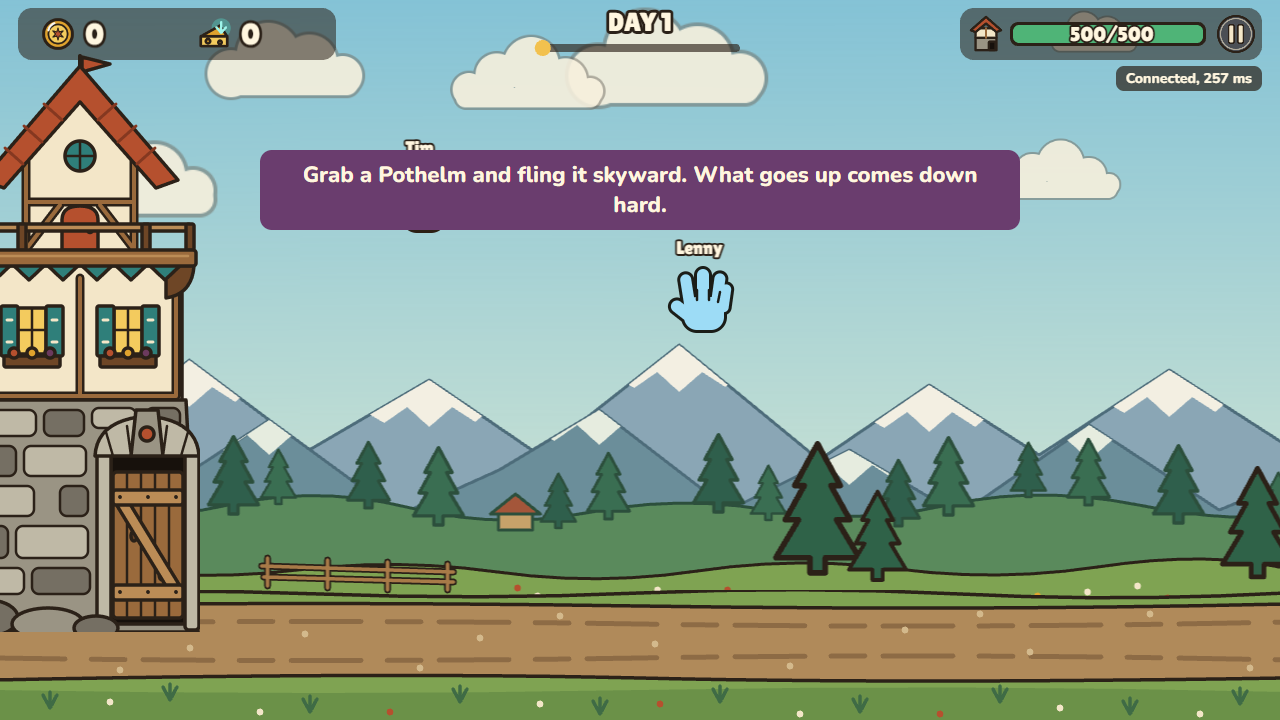
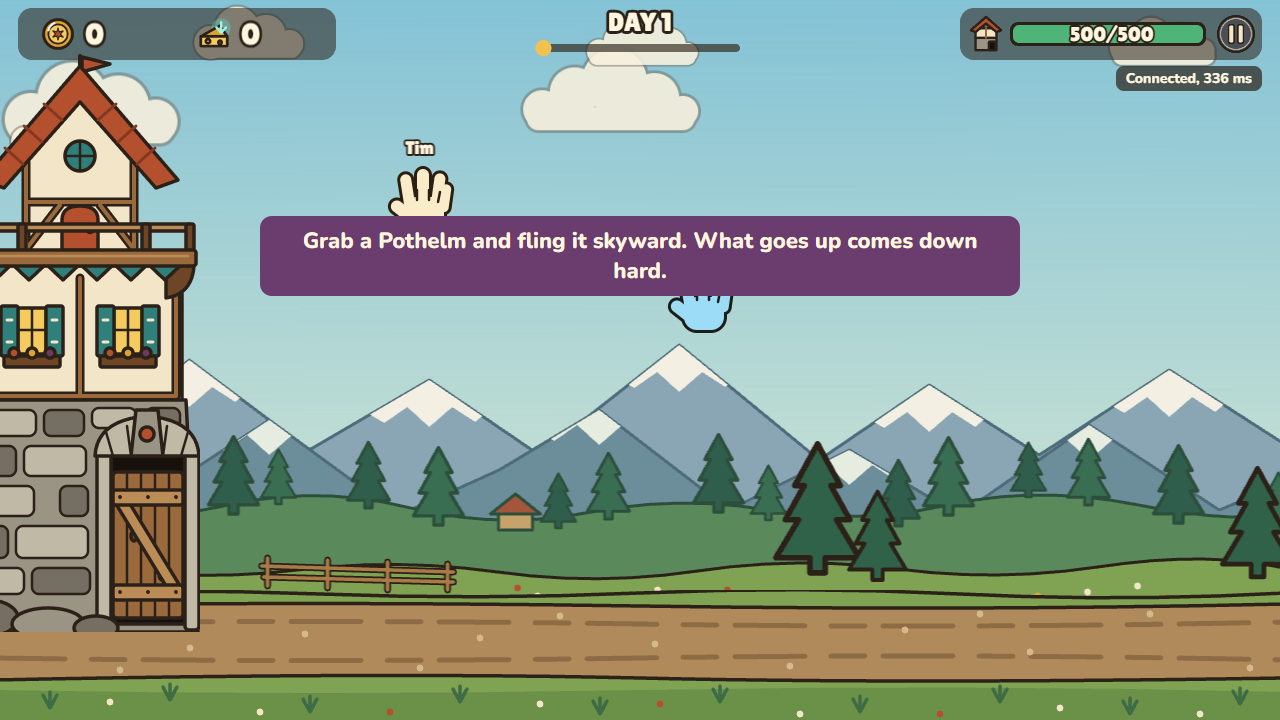
Polish impact feedback, raise co-op scaling, add design document

Changed region(s): [[0.0, 0.0, 0.875, 0.4278], [0.8125, 0.0611, 0.9688, 0.1222], [0.8438, 0.0, 0.9062, 0.0306]]

diff --git a/src/render/effects.ts b/src/render/effects.ts
@@ -1,5 +1,5 @@
 import Phaser from 'phaser';
-import { propKey, TEX_SCALE } from './textures';
+import { partKey, propKey, TEX_SCALE } from './textures';
 import { WORLD } from '../config/world';
 
 const MAX_PARTICLES = 320;
@@ -17,6 +17,8 @@ interface Particle {
   s1: number;
   fade: boolean;
   bounce: boolean;
+  /** Extra vertical scale; below 1 flattens the sprite. */
+  squash: number;
   toX?: number;
   toY?: number;
   ground: number;
@@ -51,11 +53,11 @@ export class Effects {
   private spawn(tex: string, x: number, y: number, o: Partial<Particle> & { life: number }): Particle | null {
     const img = this.free.pop();
     if (!img) return null;
-    img.setTexture(tex).setVisible(true).setPosition(x, y).setAlpha(1).setRotation(0).setTint(0xffffff);
+    img.setTexture(tex).setVisible(true).setPosition(x, y).setAlpha(1).setRotation(0).setTint(0xffffff).setOrigin(0.5, 0.5);
     img.setDepth(31);
     const s0 = o.s0 ?? 1;
     img.setScale(s0 / TEX_SCALE);
-    const p: Particle = { img, vx: 0, vy: 0, g: 0, rotV: 0, max: o.life, s0, s1: s0, fade: true, bounce: false, ground: WORLD.groundY + 30, ...o };
+    const p: Particle = { img, vx: 0, vy: 0, g: 0, rotV: 0, max: o.life, s0, s1: s0, fade: true, bounce: false, squash: 1, ground: WORLD.groundY + 30, ...o };
     this.live.push(p);
     return p;
   }
@@ -83,7 +85,8 @@ export class Effects {
       }
       p.img.rotation += p.rotV * dt;
       const k = p.life / p.max;
-      p.img.setScale((p.s1 + (p.s0 - p.s1) * k) / TEX_SCALE);
+      const size = (p.s1 + (p.s0 - p.s1) * k) / TEX_SCALE;
+      p.img.setScale(size, size * p.squash);
       if (p.fade) p.img.setAlpha(Math.min(1, k * 1.8));
     }
     for (let i = this.texts.length - 1; i >= 0; i--) {
@@ -207,6 +210,18 @@ export class Effects {
   fadingProp(key: string, x: number, y: number, life: number, originY = 1) {
     const p = this.spawn(propKey(key), x, y, { life, s0: 1, s1: 1 });
     p?.img.setOrigin(0.5, originY);
-    if (p) this.scene.time.delayedCall(life * 1000 + 30, () => p.img.setOrigin(0.5, 0.5));
+  }
+
+  /** The flattened body that stays for a moment after a hard landing. */
+  flattened(rig: string, x: number, y: number) {
+    const key = partKey(rig, 'body');
+    if (!this.scene.textures.exists(key)) return;
+    const p = this.spawn(key, x, y + 4, { life: 0.32, s0: 1.5, s1: 1.15, squash: 0.32 });
+    p?.img.setOrigin(0.5, 1).setDepth(21);
+  }
+
+  /** Air streaks behind a fast-flying enemy. */
+  streak(x: number, y: number) {
+    this.spawn(propKey('dust'), x, y, { life: 0.16, s0: 0.3, s1: 0.05, g: 0 });
   }
 }

diff --git a/src/render/scene.ts b/src/render/scene.ts
@@ -217,6 +217,7 @@ export class GameScene extends Phaser.Scene {
       }
       v.update(e, time, dt);
       if (e.st === 'air' && v.speed > fastest) fastest = v.speed;
+      if (e.st === 'air' && v.speed > 1300 && dt > 0) this.fx.streak(e.x, e.y - 40);
     }
     for (const [id, v] of this.active) {
       if (!seen.has(id)) { v.hide(); this.pool.push(v); this.active.delete(id); }
@@ -389,6 +390,7 @@ export class GameScene extends Phaser.Scene {
   private handleEvent(ev: SimEvent, s: Session) {
     switch (ev.e) {
       case 'grab':
+        this.viewOf(ev.id)?.bump();
         this.sfx('grab');
         this.sfx('scream', 0.8);
         break;
@@ -518,6 +520,8 @@ export class GameScene extends Phaser.Scene {
     this.hitstop(power);
     this.shake(5 + power * 13);
     this.fx.splat(ev.x, ev.y, power);
+    this.fx.flattened(ev.etype, ev.x, ev.y);
+    this.fx.ring(ev.x, ev.y - 14, 50 + power * 60, 0xfff6df);
     this.sfx('impactClang', 0.55 + power * 0.45);
     this.sfx('impactSplat', 0.55 + power * 0.45);
   }

diff --git a/tests/unit/sim.test.ts b/tests/unit/sim.test.ts
@@ -2,7 +2,7 @@ import { describe, expect, it } from 'vitest';
 import { Sim } from '../../src/sim/sim';
 import { TUNING_DEFAULT } from '../../src/config/tuning';
 import { ENEMIES, BEHAVIOUR } from '../../src/config/enemies';
-import { DAY } from '../../src/config/waves';
+import { COOP, DAY } from '../../src/config/waves';
 import { GATE_HP, SHOP_ITEMS, WEAPONS } from '../../src/config/shop';
 import { WORLD } from '../../src/config/world';
 import type { Enemy, SimEvent } from '../../src/sim/types';
@@ -193,7 +193,7 @@ describe('spawning', () => {
     expect(c(7, 'medium', 1)).toBeLessThanOrEqual(145);
     expect(c(5, 'hard', 1)).toBeGreaterThan(c(5, 'medium', 1));
     expect(c(5, 'medium', 1)).toBeGreaterThan(c(5, 'easy', 1));
-    expect(c(5, 'medium', 2)).toBe(Math.round(c(5, 'medium', 1) * 1.6));
+    expect(c(5, 'medium', 2)).toBe(Math.round(c(5, 'medium', 1) * COOP.countFactor));
   });
 
   it('introduces each type on its day and guarantees it appears', () => {

diff --git a/tests/e2e/coop.spec.ts b/tests/e2e/coop.spec.ts
@@ -50,6 +50,13 @@ for (const [label, query] of [['no added latency', ''], ['simulated latency', '&
     await host.screenshot({ path: 'docs/screenshots/coop-host.png' });
     await guest.screenshot({ path: 'docs/screenshots/coop-guest.png' });
 
+    // Host tuning applies to both.
+    await host.evaluate(() => {
+      const app = (window as any).__fondue;
+      app.session.sim.setTuning({ ...app.session.sim.tuning, shake: 1.7 });
+    });
+    await waitFor(() => guest.evaluate(() => (window as any).__fondue.session.meta().tuning.shake), (v) => v === 1.7, 5000);
+
     // Each player kills one enemy; money is shared.
     const onScreen = (s: any) => s.enemies.filter((e: any) => e.x < 1100 && e.x > 300 && e.st === 'walk');
     let s = await waitFor(() => gameState(host), (v) => onScreen(v).length >= 2, 25000);

diff --git a/src/ui/style.css b/src/ui/style.css
@@ -106,7 +106,7 @@ table.scores th, table.scores td { padding: 6px 8px; text-align: left; border-bo
 .slide img { height: 96px; margin: 6px; }
 .dots { text-align: center; font-weight: 800; }
 
-.toast-area { position: absolute; left: 0; right: 0; top: 150px; display: flex; flex-direction: column; align-items: center; gap: 8px; pointer-events: none; }
+.toast-area { position: absolute; left: 0; right: 0; top: 30%; display: flex; flex-direction: column; align-items: center; gap: 8px; pointer-events: none; }
 .toast { background: var(--ink); color: var(--cream); padding: 10px 22px; border-radius: 12px; font-weight: 800; font-size: 20px; max-width: 760px; text-align: center; animation: pop 0.18s ease-out; }
 .toast.tip { background: var(--plum); font-size: 22px; }
 

diff --git a/src/ui/app.ts b/src/ui/app.ts
@@ -85,7 +85,10 @@ export class App {
     });
     this.applyAudioSettings();
     window.addEventListener('keydown', (e) => this.onKey(e));
-    window.addEventListener('pointerdown', () => this.audio.resume());
+    window.addEventListener('pointerdown', () => {
+      this.audio.resume();
+      if (!this.session) this.audio.startMusic('menu');
+    });
   }
 
   async boot() {

diff --git a/src/config/waves.ts b/src/config/waves.ts
@@ -39,7 +39,7 @@ export const DAY = {
 };
 
 /** Extra enemies in co-op. */
-export const COOP = { countFactor: 1.6 };
+export const COOP = { countFactor: 1.9 };
 
 /** Landscape cycle: changes every N days. */
 export const LANDSCAPES = ['meadow', 'canyon', 'marsh', 'snowpine'] as const;

diff --git a/docs/GDD.md b/docs/GDD.md
@@ -1,0 +1,74 @@
+# Fondue – Game Design Document
+
+Fondue ist ein eigenständiges Spiel. Mechaniken und Regeln orientieren sich an Knights Onrush, Welt, Figuren, Namen, Texte, Grafik, Sound und Bildschirmaufbau sind eigen (siehe ENTSCHEIDUNGEN E-001).
+
+Kennzeichnung: **[M]** am Original gemessen, **[W]** am Original wahrscheinlich, **[A]** eigene Annahme. Belege in `reference/notes/mechanik.md` (lokal, nicht im Repo).
+
+## Welt
+Eine Alpenfestung auf der linken Seite, eine Räuberarmee kommt von rechts über die Passstraße. Du bist eine riesige Hand. Die Festung hat einen großen Käsekessel und einen Adlerhorst als Opferstätten. **[A]**
+
+## Tagesablauf
+| Punkt | Wert | Quelle |
+|---|---|---|
+| Banner vor dem Tag | 2,6 s | [A] |
+| Kampfdauer | 50 s (Auftrag), gemessen 41–103 s je Tag | [M] Spanne |
+| Himmel | Tag, ab 50 % Dämmerung, ab 75 % Nacht mit Sternen | [W] |
+| Tor zwischen den Tagen | voll aufgefüllt | [W] V9 |
+| Shop zwischen den Tagen | ja | [M] |
+| Ende des Tages | Übrige Gegner fliehen | [A] |
+| Niederlage | Lauf endet, Punkte in die Highscore-Liste | [A], im Video nicht zu sehen |
+
+## Wurfphysik (Kalibrierung)
+Messungen am Original in Anteilen der Bildhöhe H und Bildbreite W, umgerechnet auf 1280×720.
+
+| Größe | Original | Fondue |
+|---|---|---|
+| Schwerkraft | ca. 10 H/s² aus Fallzeit, 7 H/s² aus Wurfbogen [M] | 3400 px/s² (4,7 H/s²); Wert liegt bewusst darunter, damit die Bahn lesbar bleibt |
+| Starker Wurf, Luftzeit | 0,75 s bis 1,4 s [M] | 2000 px/s nach oben: etwa 1,2 s; per Unit-Test auf 0,75–1,6 s geprüft |
+| Starker Wurf, Höhe | 0,7 H, sehr starke Würfe verlassen das Bild [M] | maximal 2700 px/s, Scheitel außerhalb des Bilds |
+| Laufgeschwindigkeit | 0,10–0,15 W/s, ±40 % [W] | 96 px/s (0,075 W/s), am unteren Rand gewählt |
+| Reiter | 0,3 W/s [W] | 230 px/s (0,18 W/s) |
+| Figurengröße | 0,12–0,19 H [M] | 87 px (0,12 H) |
+| Aufprall-Effekte | Blut 0,5–0,6 s, Explosion 0,33 s [M] | Partikel 0,45–0,75 s, Explosion 0,33 s |
+
+Tödlich ist ein Aufprall ab 720 px/s. Das entspricht einem Fall aus etwa 76 px Höhe, ein kurzes Hochschnippen reicht also.
+
+## Gegner
+Die Verhaltensarten stammen aus dem Original oder sind vom Auftrag vorgegeben, Namen und Aussehen sind eigen.
+
+| Typ | Ab Tag | Verhalten | Quelle |
+|---|---|---|---|
+| Pothelm | 1 | läuft, schlägt aufs Tor | [M] |
+| Keg Hauler | 2 | wirft Bomben aus der Distanz; kurzer Klick lässt das Fass fallen; geworfen explodiert er | [M] |
+| Goat Rider | 3 | sehr schnell, samt Reittier greifbar | [M] |
+| Pogo Bandit | 4 | springt in Bögen, in der Luft greifbar | [M] |
+| Hexer | 5 | Schutzblase verhindert Greifen | [M] |
+| Slinger | 6 | schießt aus der Distanz | [A] |
+| Siege Cart | 7 | nicht greifbar, durch mehrfaches Klicken zerstörbar | [M] |
+| Balloonist | 8 | schwebt, wirft Bomben | [W] |
+| Shade | 10 | zeitweise unsichtbar und dann nicht greifbar | [A] |
+| Crowcaller | 12 | kommt nach dem ersten Tod als Krähe zurück | [A] |
+| Yeti | 14 | eine Hand zieht nur, zwei Hände können ihn werfen | [A] |
+
+## Wirtschaft
+- Gold pro Gegner 10–120, gemessen am Original etwa 15 pro Kill **[M]**.
+- Opfergabe (Offering, goldener Käse): +1 pro Opfer in Kessel oder am Haken **[M]**.
+- 22 Upgrades: 5 Tore, 2 Opferstätten, 9 Turmwaffen, 3 Torwaffen, 3 Dachgeschütze **[M]** bei der Struktur, Namen und Preise **[A]**.
+- Tagesgold laut Bots: etwa 340 an Tag 1, 800 an Tag 3, 1700 an Tag 7.
+
+## Waffen
+| Waffe | Bedienung | Quelle |
+|---|---|---|
+| Wheels | Icon, rollt sofort über die Straße | [W] |
+| Stompers | Icon, zielen, drücken und nach unten schnippen | [M] |
+| Comets | Icon, greifen, schwingen, loslassen; mehr Schwung, größere Explosion | [M] |
+| Gate Arms (Mortar, Frost Horn, Dragon Bellows) | Icon, drücken und zielen, loslassen | [M] |
+| Roof Bolters | Icon, Salve auf die nächsten Gegner | [W] |
+
+Abklingzeiten sind in den Videos nicht zu erkennen und daher **[A]**.
+
+## Koop
+Host-autoritativ mit 30 Snapshots pro Sekunde, Interpolation 100 ms, Vorhersage von Griff und Wurf beim Gast. Gemeinsame Kasse, gemeinsames Tor, Shop mit Ready. Gegneranzahl ×1,9 (Startwert im Auftrag 1,6, nach Balance-Simulation erhöht).
+
+## Eskalation
+Tag 1: 38 Gegner, je Tag +14, ab Tag 12 +12. Tag 7: 122. Torschaden +13 %, Tempo +1,5 %, Waffen-Trefferpunkte +12 % pro Tag.

diff --git a/docs/balance-latest.md b/docs/balance-latest.md
@@ -1,10 +1,10 @@
 | Bot | Spieler | Stufe | Tag erreicht (Mittel, min-max) | Kills | Upgrades | Offerings gesamt | Gold Tag 1/3/7 |
 |---|---|---|---|---|---|---|---|
-| Beginner | 1 | medium | 3.8 (1-7) | 167 | 3.2/22 | 28 | 197/611/217 |
-| Average | 1 | medium | 12.9 (11-14) | 1378 | 13.9/22 | 140 | 336/815/1751 |
-| Pro | 1 | medium | 20.1 (15-32) | 3450 | 19.1/22 | 352 | 372/943/1892 |
-| Beginner | 2 | medium | 11.2 (9-14) | 1702 | 14.7/22 | 181 | 417/1285/2624 |
-| Average | 2 | medium | 20.4 (15-26) | 5370 | 20.8/22 | 404 | 584/1372/2885 |
-| Pro | 2 | medium | 30.4 (28-33) | 11155 | 22.0/22 | 957 | 610/1497/3019 |
-| Average | 1 | easy | 16.0 (14-21) | 1538 | 15.4/22 | 152 | 318/771/1573 |
-| Average | 1 | hard | 10.0 (7-12) | 1148 | 11.9/22 | 120 | 347/980/2002 |
+| Beginner | 1 | medium | 3.8 (1-7) | 165 | 3.2/22 | 28 | 197/600/211 |
+| Average | 1 | medium | 12.2 (7-14) | 1258 | 13.2/22 | 128 | 336/815/1729 |
+| Pro | 1 | medium | 17.9 (15-20) | 2715 | 18.6/22 | 297 | 372/943/1892 |
+| Beginner | 2 | medium | 10.3 (9-12) | 1462 | 13.8/22 | 156 | 417/1285/2624 |
+| Average | 2 | medium | 18.9 (14-24) | 4698 | 20.2/22 | 352 | 584/1372/2885 |
+| Pro | 2 | medium | 29.2 (27-32) | 10406 | 22.0/22 | 911 | 610/1497/3019 |
+| Average | 1 | easy | 15.7 (14-19) | 1483 | 15.2/22 | 147 | 318/771/1573 |
+| Average | 1 | hard | 9.4 (7-11) | 1040 | 11.2/22 | 109 | 347/980/1982 |
